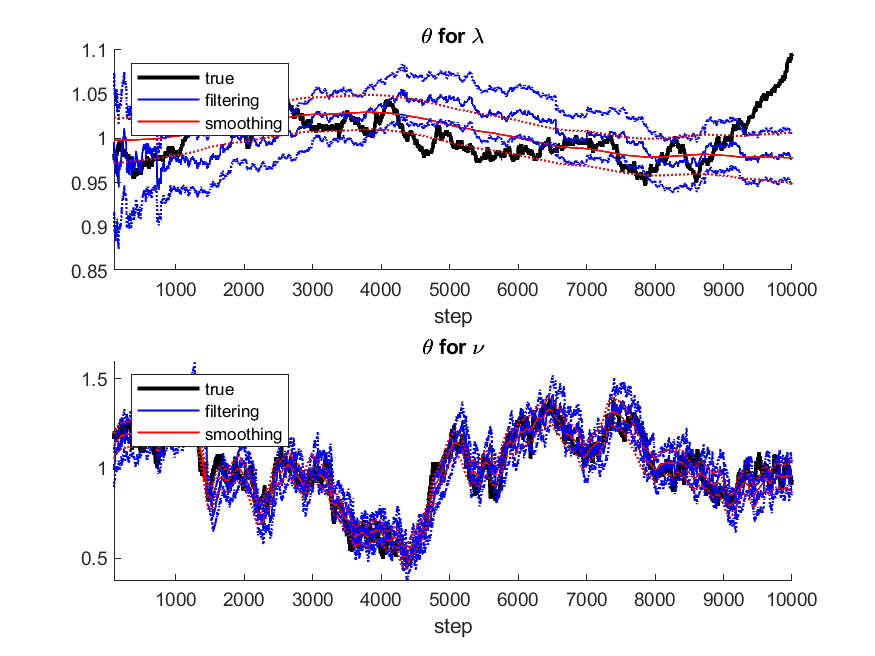
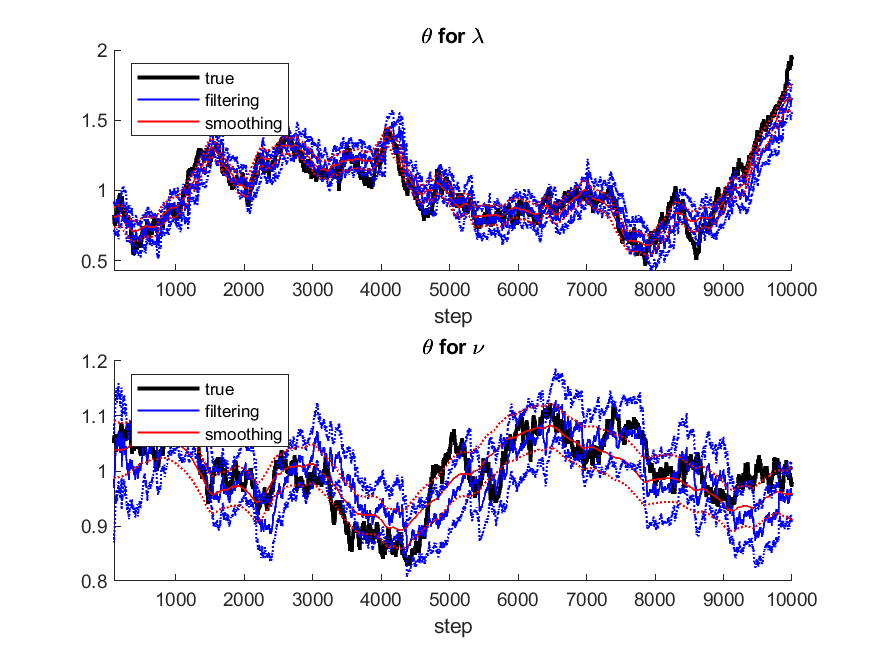
update QTune plots

diff --git a/demo/single/demo_QTune.m b/demo/single/demo_QTune.m
@@ -5,8 +5,8 @@ addpath(genpath('C:\Users\gaw19004\Documents\GitHub\COM_POISSON'));
 T = 100;
 dt = 0.01; % bin length (s)
 N = 1; % number of independent observations
-Q_true = diag([1e-7 1e-4]);
-% Q_true = diag([1e-4 1e-5]);
+% Q_true = diag([1e-7 1e-4]);
+Q_true = diag([1e-4 1e-5]);
 
 
 % X_lam = ones(T/dt, 1);
@@ -91,7 +91,7 @@ xline(log10(Q_true(2, 2)), 'r--', 'LineWidth', 2);
 plot(log10(Qopt(2)), log10(Qopt(1)), 'o', 'Color', 'b',...
     'LineWidth', 2, 'markerfacecolor', 'b', 'MarkerSize',5)
 
-% saveas(llhdPlot_heat, 'llhdPlot_heat.png')
+saveas(llhdPlot_heat, 'llhdPlot_heat.png')
 %%
 
 
@@ -126,7 +126,7 @@ xlabel('step')
 xlim([100, round(T/dt)])
 hold off
 
-% saveas(theta, 'theta_Qtune.png')
+saveas(theta, 'theta_Qtune.png')
 
 %% multi
 rng(12)
